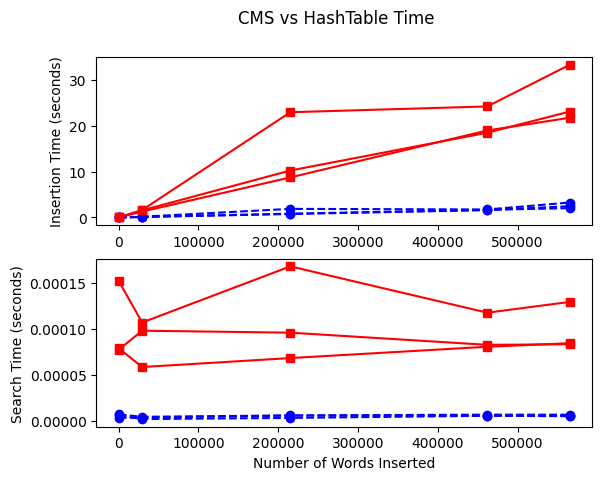
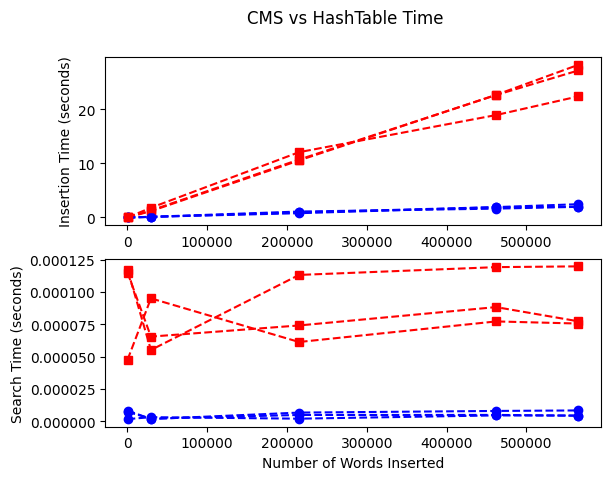
updates, fml

diff --git a/driver.py b/driver.py
@@ -59,7 +59,6 @@ def searchHT(ht, word):
 if __name__ == '__main__':
     # Open all the files (sorted from smallest to largest)
     # tiny = open("text/tiny_home-on-the-range.txt", "r")
-    tiny = "tiny.txt"
     cse = "cse312.txt"
     alice = "aliceinwonderland.txt"
     moby = "mobydick.txt"
@@ -99,10 +98,10 @@ if __name__ == '__main__':
             print("     (CMS) estimated count \"the\": {}".format(cms_count))
 
         iplot.plot(filewordcounts, ht_init_times, 'bo', filewordcounts, ht_init_times, 'b--')
-        iplot.plot(filewordcounts, cms_init_times, 'rs', filewordcounts, cms_init_times, 'r')
+        iplot.plot(filewordcounts, cms_init_times, 'rs', filewordcounts, cms_init_times, 'r--')
 
         splot.plot(filewordcounts, ht_search_times, 'bo', filewordcounts, ht_search_times, 'b--')
-        splot.plot(filewordcounts, cms_search_times, 'rs', filewordcounts, cms_search_times, 'r')
+        splot.plot(filewordcounts, cms_search_times, 'rs', filewordcounts, cms_search_times, 'r--')
 
     iplot.set_ylabel('Insertion Time (seconds)')
     splot.set_ylabel('Search Time (seconds)')
